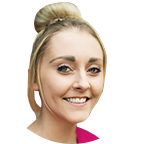
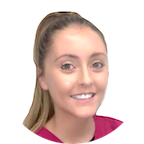
Finish adding profile photos (#5)

diff --git a/index.html b/index.html
@@ -290,9 +290,9 @@
                       </div>
                       <div class="modal-body about-david-modal">
                         <img src="img/david.png" alt="Dr David Blaen" class="modal-img">
-                        <p>My main interest is in Endodontics (root fillings). I undertook an MSc programme in this subject and have subsequently taught other students. I currently supervise final year students undertaking their dissertation.</p>
-                        <p>But nothing gives me more satisfaction than saving a broken down tooth and restoring it, especially on an apprehensive patient. Many people worry about root fillings and although it can be a lengthy process, modern techniques mean there is rarely any discomfort. Using a dental microscope allows me to see far inside the tooth and allows treatment that would not otherwise be possible.</p>
-                        <p>I enjoy travelling and recently fulfilled a lifetime ambition of stepping onto Antarctica. When not buried in a root canal I can usually be found walking in the Yorkshire Dales or underneath my Alfa Romeo Spider.</p>
+                        <p>David’s main interest is in Endodontics (root fillings). He undertook several years of post-graduate study and was awarded an MSc in 2012. Subsequently he was invited back to teach other students on the course and currently supervises Masters students undertaking their dissertations.</p>
+                        <p>However nothing gives him more satisfaction than saving a broken down tooth and restoring it, especially on an apprehensive patient. Many people worry about root fillings and although it can be a lengthy process, modern techniques mean there is rarely any discomfort.  Using a dental microscope allows vision of structures deep inside a tooth and facilitates treatment that would not otherwise be possible.</p>
+                        <p>He enjoys travelling and recently fulfilled a lifetime ambition of stepping onto Antarctica. When not buried in a root canal he can usually be found walking in the Yorkshire Dales or underneath his Alfa Romeo Spider.</p>
                       </div>
                       <div class="modal-footer treatment-modal">
                         <button type="button" class="btn btn-secondary" data-dismiss="modal">Close</button>
@@ -341,7 +341,7 @@
           </div>
           <div class="col-md-3 col-sm-3 col-xs-6">
             <div class="thumbnail">
-              <img src="img/blank.png" alt="Dr Stephanie Blain" class="team-img">
+              <img src="img/stephanie.png" alt="Dr Stephanie Blain" class="team-img">
               <div class="caption">
                 <h3>Stephanie Blain</h3>
                 <p>Dentist | GDC 210117<br>BDS Ncle</p>
@@ -357,7 +357,7 @@
                         <h4 class="modal-title" id="modal-title">About Stephanie Blain</h4>
                       </div>
                       <div class="modal-body about-stephanie-modal">
-                        <img src="img/blank.png" alt="Ms Stephanie Blain" class="modal-img">
+                        <img src="img/stephanie.png" alt="Ms Stephanie Blain" class="modal-img">
                         <p>Stephanie graduated from Newcastle University in 2011. After training she decided to move back to Yorkshire and joined the practice in 2015.</p>
                         <p>In 2016 she decided to gain extra qualifications in Facial Aesthetics and since has expanded her knowledge and skills by attending courses on Harley Street. In her spare time shes plays netball twice a week and has a lovely Bedlington Terrier called Lenny that needs walking a lot!</p>
                         <p>Stephanie works <u>Mondays</u>, <u>Tuesdays</u>, <u>Thursdays</u> and <u>Fridays</u>, but soon will be going on maternity leave. She will be coming back in 2020.</p>
@@ -374,7 +374,7 @@
           </div>
           <div class="col-md-3 col-sm-3 col-xs-6">
             <div class="thumbnail">
-              <img src="img/blank.png" alt="Dr Sarah Adjepong" class="team-img">
+              <img src="img/sarah.png" alt="Dr Sarah Adjepong" class="team-img">
               <div class="caption">
                 <h3>Sarah Adjepong</h3>
                 <p>Dentist | GDC 264331<br>BDS Manc</p>
@@ -391,7 +391,7 @@
                         <h4 class="modal-title" id="modal-title">About Sarah Adjepong</h4>
                       </div>
                       <div class="modal-body about-sarah-modal">
-                        <img src="img/blank.png" alt="Ms Sarah Adjepong" class="modal-img">
+                        <img src="img/sarah.png" alt="Ms Sarah Adjepong" class="modal-img">
                         <p>NEEDS UPDATING</p>
                       </div>
                       <div class="modal-footer treatment-modal">
@@ -406,7 +406,7 @@
           </div>
           <div class="col-md-3 col-sm-3 col-xs-6">
             <div class="thumbnail">
-              <img src="img/blank.png" alt="Dr Jane Moore" class="team-img">
+              <img src="img/jane.png" alt="Dr Jane Moore" class="team-img">
               <div class="caption">
                 <h3>Jane Moore</h3>
                 <p>Dentist | GDC 51237<br>BDS Sheff</p>
@@ -422,7 +422,7 @@
                         <h4 class="modal-title" id="modal-title">About Jane Moore</h4>
                       </div>
                       <div class="modal-body about-jane-modal">
-                        <img src="img/blank.png" alt="Ms Jane Moore" class="modal-img">
+                        <img src="img/jane.png" alt="Ms Jane Moore" class="modal-img">
                         <p>NEEDS UPDATING</p>
                       </div>
                       <div class="modal-footer treatment-modal">
@@ -842,7 +842,7 @@
           </div>
           <div class="col-md-3 col-sm-3 col-xs-6">
             <div class="thumbnail">
-              <img src="img/blank.png" alt="Ms Tracey Batley" class="team-img">
+              <img src="img/tracey.png" alt="Ms Tracey Batley" class="team-img">
               <div class="caption">
                 <h3>Tracey Batley</h3>
                 <p>Nurse | GDC 135308</p>
@@ -858,7 +858,7 @@
                         <h4 class="modal-title" id="modal-title">About Tracey Batley</h4>
                       </div>
                       <div class="modal-body about-tracey-modal">
-                        <img src="img/blank.png" alt="Ms Tracey Batley" class="modal-img">
+                        <img src="img/tracey.png" alt="Ms Tracey Batley" class="modal-img">
                         <p>NEEDS UPDATING</p>
                       </div>
                       <div class="modal-footer treatment-modal">
